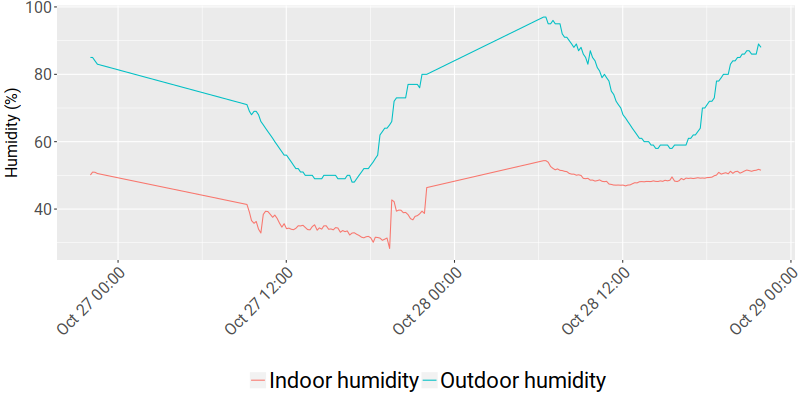
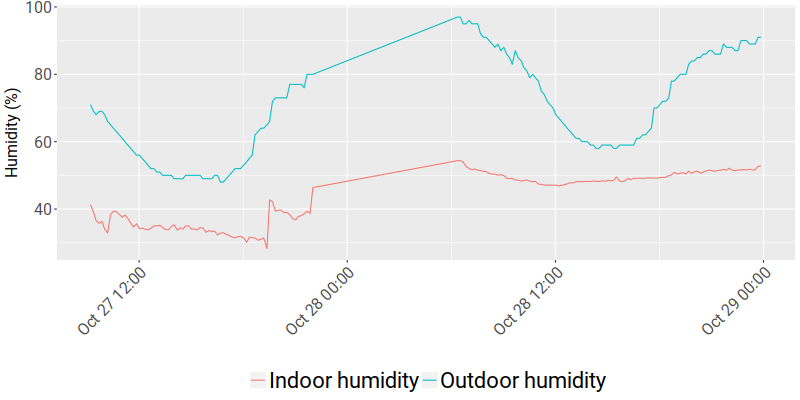
Update live temperature on site

diff --git a/temperature.js b/temperature.js
@@ -1,1 +1,1 @@
-document.write("<h4>Inside Temperature: 22.0°C</h4><h4>Outside Temperature: 13.61°C</h4><h4>Fermenter 1 Temperature: 21.81°C</h4><h4>Fermenter 2 Temperature: 21.75°C</h4><h4>Inside Humidity: 51.53%</h4><h4>Outside Humidity: 88.0%</h4><br>Last update: 2017-10-28 21:51:49");
+document.write("<h4>Inside Temperature: 22.0°C</h4><h4>Outside Temperature: 13.63°C</h4><h4>Fermenter 1 Temperature: 21.63°C</h4><h4>Fermenter 2 Temperature: 21.5°C</h4><h4>Inside Humidity: 52.77%</h4><h4>Outside Humidity: 91.0%</h4><br>Last update: 2017-10-28 23:51:09");
